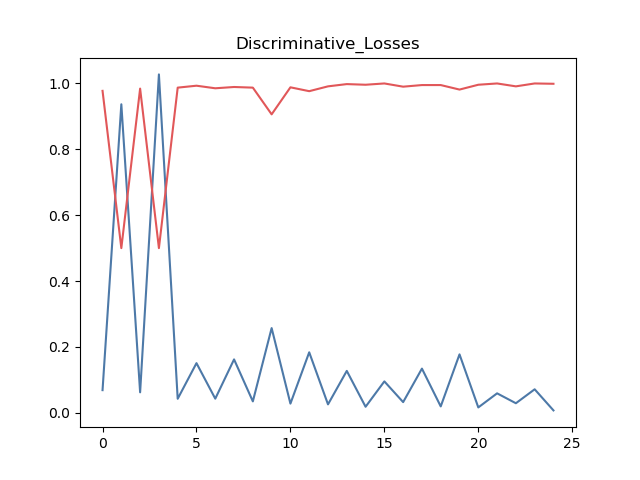
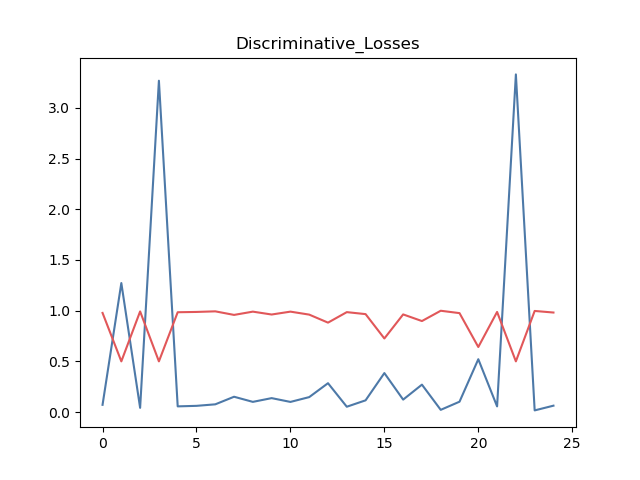
update params

diff --git a/src/train_model.py b/src/train_model.py
@@ -136,5 +136,5 @@ if __name__ == '__main__':
 
     #Train GAN
     batch_size=512
-    batch_epochs=500
+    batch_epochs=100
     train(X_train_L, X_train_AB, X_test_L, X_test_AB, batch_epochs, batch_size, gan)
